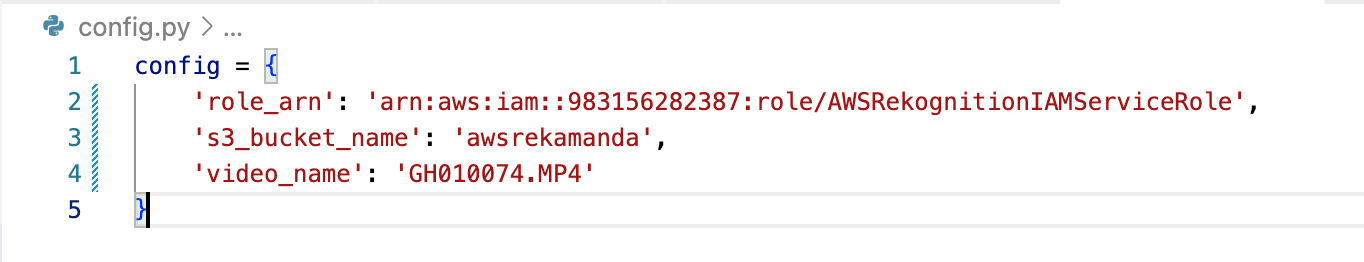
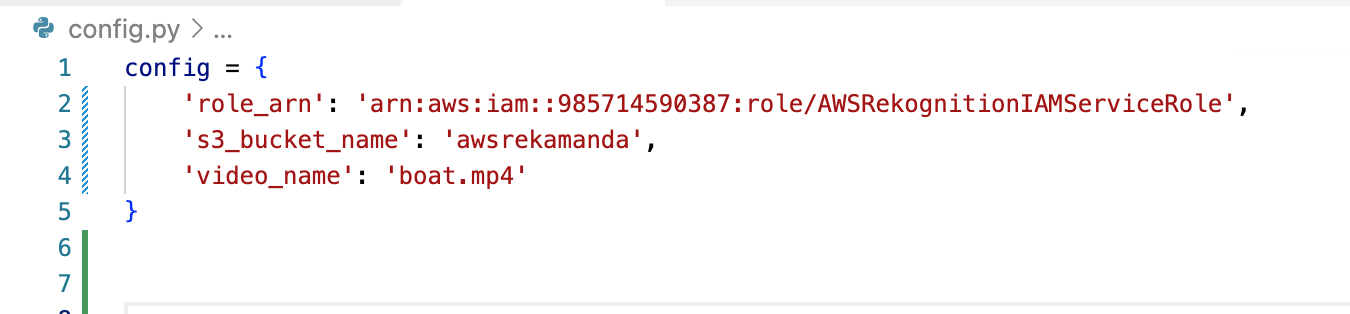
changes

diff --git a/config.py b/config.py
@@ -1,5 +1,7 @@
 config = {
-    'role_arn': 'Input Role ARN Name. Example: arn:aws:iam::982145146342:role/AWSRekognitionIAMServiceRole',
-    's3_bucket_name': 'Input S3 Bucket Name where videos are located. Example: awsrekamanda',
-    'video_name': 'Input video name. Example: GH010074.MP4'
+    'role_arn': 'arn:aws:iam::985714590387:role/AWSRekognitionIAMServiceRole',
+    's3_bucket_name': 'awsrekamanda',
+    'video_name': 'boat.mp4'
 }
+
+

diff --git a/headhunt-video.py b/headhunt-video.py
@@ -96,6 +96,8 @@ class VideoDetect:
                                           MaxResults=maxResults,
                                           NextToken=paginationToken)
       #print(str(response['VideoMetadata']['DurationMillis']))
+      if (not response['Persons']):
+        finished = True
       for personMatch in response['Persons']:
         if ('FaceMatches' in personMatch):
           for faceMatch in personMatch['FaceMatches']:
